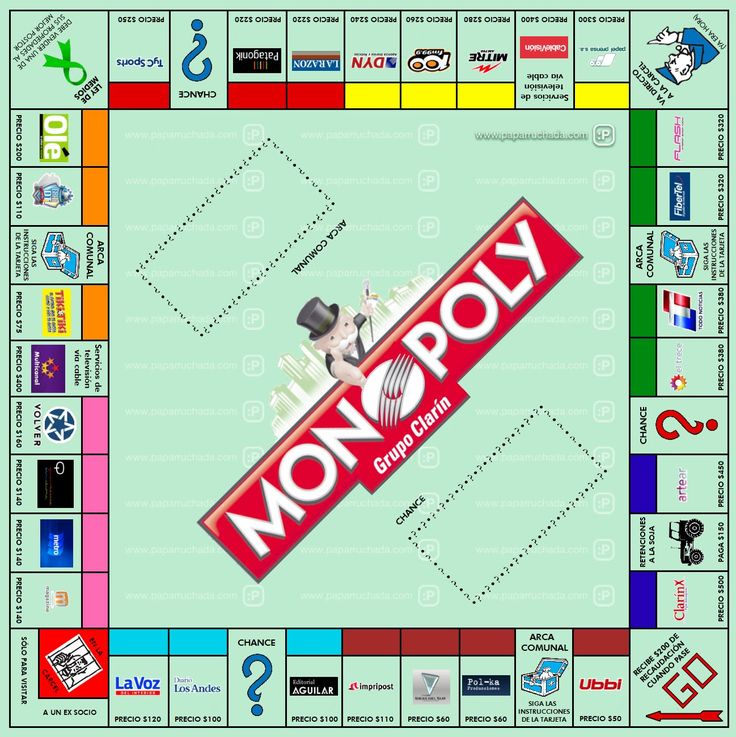
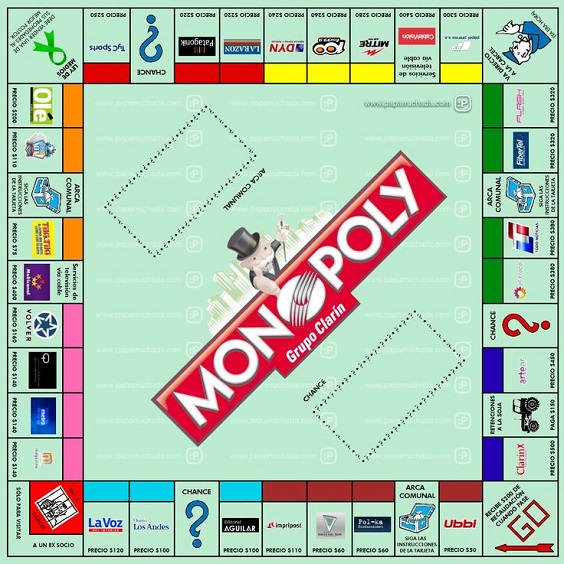
Final
Casi listo funcional

diff --git a/MonopolioRedes/Vista/Ventana_Juego.Designer.cs b/MonopolioRedes/Vista/Ventana_Juego.Designer.cs
@@ -36,22 +36,23 @@
             this.lJugadores = new System.Windows.Forms.ListBox();
             this.label1 = new System.Windows.Forms.Label();
             this.lDado = new System.Windows.Forms.Label();
+            this.lazul = new System.Windows.Forms.Label();
+            this.lamarillo = new System.Windows.Forms.Label();
+            this.lverde = new System.Windows.Forms.Label();
             this.lrojo = new System.Windows.Forms.Label();
             this.label3 = new System.Windows.Forms.Label();
             this.bLanzar = new System.Windows.Forms.Button();
             this.lTablero = new System.Windows.Forms.Label();
-            this.lverde = new System.Windows.Forms.Label();
-            this.lamarillo = new System.Windows.Forms.Label();
-            this.lazul = new System.Windows.Forms.Label();
             this.SuspendLayout();
             // 
             // bSaltarTurno
             // 
             this.bSaltarTurno.BackColor = System.Drawing.Color.FromArgb(((int)(((byte)(192)))), ((int)(((byte)(0)))), ((int)(((byte)(0)))));
             this.bSaltarTurno.Font = new System.Drawing.Font("Microsoft Sans Serif", 15.75F, System.Drawing.FontStyle.Bold, System.Drawing.GraphicsUnit.Point, ((byte)(0)));
-            this.bSaltarTurno.Location = new System.Drawing.Point(958, 426);
+            this.bSaltarTurno.Location = new System.Drawing.Point(1076, 535);
+            this.bSaltarTurno.Margin = new System.Windows.Forms.Padding(4);
             this.bSaltarTurno.Name = "bSaltarTurno";
-            this.bSaltarTurno.Size = new System.Drawing.Size(195, 64);
+            this.bSaltarTurno.Size = new System.Drawing.Size(260, 79);
             this.bSaltarTurno.TabIndex = 24;
             this.bSaltarTurno.Text = "Pasar Turno";
             this.bSaltarTurno.UseVisualStyleBackColor = false;
@@ -61,9 +62,10 @@
             // 
             this.bComprarPropiedad.BackColor = System.Drawing.Color.Lime;
             this.bComprarPropiedad.Font = new System.Drawing.Font("Microsoft Sans Serif", 12F, ((System.Drawing.FontStyle)((System.Drawing.FontStyle.Bold | System.Drawing.FontStyle.Italic))), System.Drawing.GraphicsUnit.Point, ((byte)(0)));
-            this.bComprarPropiedad.Location = new System.Drawing.Point(757, 426);
+            this.bComprarPropiedad.Location = new System.Drawing.Point(808, 535);
+            this.bComprarPropiedad.Margin = new System.Windows.Forms.Padding(4);
             this.bComprarPropiedad.Name = "bComprarPropiedad";
-            this.bComprarPropiedad.Size = new System.Drawing.Size(195, 63);
+            this.bComprarPropiedad.Size = new System.Drawing.Size(260, 78);
             this.bComprarPropiedad.TabIndex = 19;
             this.bComprarPropiedad.Text = "Comprar Propiedad";
             this.bComprarPropiedad.UseVisualStyleBackColor = false;
@@ -72,19 +74,21 @@
             // 
             this.lJugadorPropiedades.Font = new System.Drawing.Font("Microsoft Sans Serif", 9.75F, System.Drawing.FontStyle.Italic, System.Drawing.GraphicsUnit.Point, ((byte)(0)));
             this.lJugadorPropiedades.FormattingEnabled = true;
-            this.lJugadorPropiedades.ItemHeight = 16;
-            this.lJugadorPropiedades.Location = new System.Drawing.Point(754, 163);
+            this.lJugadorPropiedades.ItemHeight = 20;
+            this.lJugadorPropiedades.Location = new System.Drawing.Point(804, 212);
+            this.lJugadorPropiedades.Margin = new System.Windows.Forms.Padding(4);
             this.lJugadorPropiedades.Name = "lJugadorPropiedades";
-            this.lJugadorPropiedades.Size = new System.Drawing.Size(399, 164);
+            this.lJugadorPropiedades.Size = new System.Drawing.Size(531, 184);
             this.lJugadorPropiedades.TabIndex = 28;
             // 
             // label2
             // 
             this.label2.AutoSize = true;
             this.label2.Font = new System.Drawing.Font("Microsoft Sans Serif", 9.75F, ((System.Drawing.FontStyle)((System.Drawing.FontStyle.Bold | System.Drawing.FontStyle.Italic))), System.Drawing.GraphicsUnit.Point, ((byte)(0)));
-            this.label2.Location = new System.Drawing.Point(754, 144);
+            this.label2.Location = new System.Drawing.Point(804, 188);
+            this.label2.Margin = new System.Windows.Forms.Padding(4, 0, 4, 0);
             this.label2.Name = "label2";
-            this.label2.Size = new System.Drawing.Size(130, 16);
+            this.label2.Size = new System.Drawing.Size(155, 20);
             this.label2.TabIndex = 27;
             this.label2.Text = "Mis Propiedades:";
             // 
@@ -92,10 +96,11 @@
             // 
             this.lJugadores.Font = new System.Drawing.Font("Microsoft Sans Serif", 9.75F, System.Drawing.FontStyle.Italic, System.Drawing.GraphicsUnit.Point, ((byte)(0)));
             this.lJugadores.FormattingEnabled = true;
-            this.lJugadores.ItemHeight = 16;
-            this.lJugadores.Location = new System.Drawing.Point(754, 28);
+            this.lJugadores.ItemHeight = 20;
+            this.lJugadores.Location = new System.Drawing.Point(796, 46);
+            this.lJugadores.Margin = new System.Windows.Forms.Padding(4);
             this.lJugadores.Name = "lJugadores";
-            this.lJugadores.Size = new System.Drawing.Size(399, 100);
+            this.lJugadores.Size = new System.Drawing.Size(531, 104);
             this.lJugadores.TabIndex = 26;
             this.lJugadores.SelectedIndexChanged += new System.EventHandler(this.lJugadores_SelectedIndexChanged);
             // 
@@ -103,9 +108,10 @@
             // 
             this.label1.AutoSize = true;
             this.label1.Font = new System.Drawing.Font("Microsoft Sans Serif", 9.75F, ((System.Drawing.FontStyle)((System.Drawing.FontStyle.Bold | System.Drawing.FontStyle.Italic))), System.Drawing.GraphicsUnit.Point, ((byte)(0)));
-            this.label1.Location = new System.Drawing.Point(754, 9);
+            this.label1.Location = new System.Drawing.Point(804, 22);
+            this.label1.Margin = new System.Windows.Forms.Padding(4, 0, 4, 0);
             this.label1.Name = "label1";
-            this.label1.Size = new System.Drawing.Size(177, 16);
+            this.label1.Size = new System.Drawing.Size(213, 20);
             this.label1.TabIndex = 25;
             this.label1.Text = "Jugadores en la partida:";
             // 
@@ -113,29 +119,66 @@
             // 
             this.lDado.AutoSize = true;
             this.lDado.Font = new System.Drawing.Font("Microsoft Sans Serif", 15.75F, System.Drawing.FontStyle.Bold, System.Drawing.GraphicsUnit.Point, ((byte)(0)));
-            this.lDado.Location = new System.Drawing.Point(1045, 365);
+            this.lDado.Location = new System.Drawing.Point(1192, 460);
+            this.lDado.Margin = new System.Windows.Forms.Padding(4, 0, 4, 0);
             this.lDado.Name = "lDado";
-            this.lDado.Size = new System.Drawing.Size(76, 25);
+            this.lDado.Size = new System.Drawing.Size(92, 31);
             this.lDado.TabIndex = 30;
             this.lDado.Text = "label4";
+            // 
+            // lazul
+            // 
+            this.lazul.BackColor = System.Drawing.Color.Transparent;
+            this.lazul.Image = global::MonopolioRedes.Properties.Resources.FichaAzul1;
+            this.lazul.Location = new System.Drawing.Point(526, 529);
+            this.lazul.Margin = new System.Windows.Forms.Padding(4, 0, 4, 0);
+            this.lazul.Name = "lazul";
+            this.lazul.Size = new System.Drawing.Size(31, 26);
+            this.lazul.TabIndex = 34;
+            this.lazul.Click += new System.EventHandler(this.lazul_Click);
+            // 
+            // lamarillo
+            // 
+            this.lamarillo.BackColor = System.Drawing.Color.Transparent;
+            this.lamarillo.Image = global::MonopolioRedes.Properties.Resources.FichaAmarilla1;
+            this.lamarillo.Location = new System.Drawing.Point(487, 529);
+            this.lamarillo.Margin = new System.Windows.Forms.Padding(4, 0, 4, 0);
+            this.lamarillo.Name = "lamarillo";
+            this.lamarillo.Size = new System.Drawing.Size(31, 26);
+            this.lamarillo.TabIndex = 33;
+            this.lamarillo.Click += new System.EventHandler(this.lamarillo_Click);
+            // 
+            // lverde
+            // 
+            this.lverde.BackColor = System.Drawing.Color.Transparent;
+            this.lverde.Image = global::MonopolioRedes.Properties.Resources.FichaVerde;
+            this.lverde.Location = new System.Drawing.Point(526, 491);
+            this.lverde.Margin = new System.Windows.Forms.Padding(4, 0, 4, 0);
+            this.lverde.Name = "lverde";
+            this.lverde.Size = new System.Drawing.Size(31, 26);
+            this.lverde.TabIndex = 32;
+            this.lverde.Click += new System.EventHandler(this.lverde_Click);
             // 
             // lrojo
             // 
             this.lrojo.BackColor = System.Drawing.Color.Transparent;
             this.lrojo.Image = global::MonopolioRedes.Properties.Resources.FichaRoja;
-            this.lrojo.Location = new System.Drawing.Point(649, 664);
+            this.lrojo.Location = new System.Drawing.Point(487, 491);
+            this.lrojo.Margin = new System.Windows.Forms.Padding(4, 0, 4, 0);
             this.lrojo.Name = "lrojo";
-            this.lrojo.Size = new System.Drawing.Size(23, 21);
+            this.lrojo.Size = new System.Drawing.Size(31, 26);
             this.lrojo.TabIndex = 31;
+            this.lrojo.Click += new System.EventHandler(this.lrojo_Click);
             // 
             // label3
             // 
             this.label3.BackColor = System.Drawing.Color.Transparent;
             this.label3.Image = ((System.Drawing.Image)(resources.GetObject("label3.Image")));
             this.label3.ImageAlign = System.Drawing.ContentAlignment.TopLeft;
-            this.label3.Location = new System.Drawing.Point(1043, 651);
+            this.label3.Location = new System.Drawing.Point(1391, 801);
+            this.label3.Margin = new System.Windows.Forms.Padding(4, 0, 4, 0);
             this.label3.Name = "label3";
-            this.label3.Size = new System.Drawing.Size(105, 80);
+            this.label3.Size = new System.Drawing.Size(140, 98);
             this.label3.TabIndex = 29;
             // 
             // bLanzar
@@ -144,9 +187,10 @@
             this.bLanzar.Font = new System.Drawing.Font("Microsoft Sans Serif", 15.75F, System.Drawing.FontStyle.Bold, System.Drawing.GraphicsUnit.Point, ((byte)(0)));
             this.bLanzar.Image = global::MonopolioRedes.Properties.Resources.dado;
             this.bLanzar.ImageAlign = System.Drawing.ContentAlignment.MiddleRight;
-            this.bLanzar.Location = new System.Drawing.Point(754, 345);
+            this.bLanzar.Location = new System.Drawing.Point(804, 436);
+            this.bLanzar.Margin = new System.Windows.Forms.Padding(4);
             this.bLanzar.Name = "bLanzar";
-            this.bLanzar.Size = new System.Drawing.Size(271, 65);
+            this.bLanzar.Size = new System.Drawing.Size(361, 80);
             this.bLanzar.TabIndex = 18;
             this.bLanzar.Text = "TIRAR DADO";
             this.bLanzar.UseVisualStyleBackColor = false;
@@ -158,44 +202,18 @@
             this.lTablero.Image = global::MonopolioRedes.Properties.Resources.tablero;
             this.lTablero.ImageAlign = System.Drawing.ContentAlignment.TopLeft;
             this.lTablero.Location = new System.Drawing.Point(-1, -1);
+            this.lTablero.Margin = new System.Windows.Forms.Padding(4, 0, 4, 0);
             this.lTablero.Name = "lTablero";
-            this.lTablero.Size = new System.Drawing.Size(749, 814);
+            this.lTablero.Size = new System.Drawing.Size(753, 706);
             this.lTablero.TabIndex = 8;
             this.lTablero.Click += new System.EventHandler(this.lTablero_Click);
             // 
-            // lverde
-            // 
-            this.lverde.BackColor = System.Drawing.Color.Transparent;
-            this.lverde.Image = global::MonopolioRedes.Properties.Resources.FichaVerde;
-            this.lverde.Location = new System.Drawing.Point(678, 664);
-            this.lverde.Name = "lverde";
-            this.lverde.Size = new System.Drawing.Size(23, 21);
-            this.lverde.TabIndex = 32;
-            // 
-            // lamarillo
-            // 
-            this.lamarillo.BackColor = System.Drawing.Color.Transparent;
-            this.lamarillo.Image = global::MonopolioRedes.Properties.Resources.FichaAmarilla1;
-            this.lamarillo.Location = new System.Drawing.Point(649, 695);
-            this.lamarillo.Name = "lamarillo";
-            this.lamarillo.Size = new System.Drawing.Size(23, 21);
-            this.lamarillo.TabIndex = 33;
-            // 
-            // lazul
-            // 
-            this.lazul.BackColor = System.Drawing.Color.Transparent;
-            this.lazul.Image = global::MonopolioRedes.Properties.Resources.FichaAzul1;
-            this.lazul.Location = new System.Drawing.Point(678, 695);
-            this.lazul.Name = "lazul";
-            this.lazul.Size = new System.Drawing.Size(23, 21);
-            this.lazul.TabIndex = 34;
-            // 
             // Ventana_Juego
             // 
-            this.AutoScaleDimensions = new System.Drawing.SizeF(6F, 13F);
+            this.AutoScaleDimensions = new System.Drawing.SizeF(8F, 16F);
             this.AutoScaleMode = System.Windows.Forms.AutoScaleMode.Font;
             this.BackColor = System.Drawing.Color.Gray;
-            this.ClientSize = new System.Drawing.Size(1156, 740);
+            this.ClientSize = new System.Drawing.Size(1457, 697);
             this.Controls.Add(this.lazul);
             this.Controls.Add(this.lamarillo);
             this.Controls.Add(this.lverde);
@@ -211,7 +229,7 @@
             this.Controls.Add(this.bLanzar);
             this.Controls.Add(this.lTablero);
             this.Icon = ((System.Drawing.Icon)(resources.GetObject("$this.Icon")));
-            this.Margin = new System.Windows.Forms.Padding(2);
+            this.Margin = new System.Windows.Forms.Padding(3, 2, 3, 2);
             this.Name = "Ventana_Juego";
             this.Text = "Ventana_Juego";
             this.FormClosed += new System.Windows.Forms.FormClosedEventHandler(this.Ventana_Juego_FormClosed);

diff --git a/MonopolioRedes/Properties/Settings.Designer.cs b/MonopolioRedes/Properties/Settings.Designer.cs
@@ -8,21 +8,17 @@
 // </auto-generated>
 //------------------------------------------------------------------------------
 
-namespace MonopolioRedes.Properties
-{
-
-
+namespace MonopolioRedes.Properties {
+    
+    
     [global::System.Runtime.CompilerServices.CompilerGeneratedAttribute()]
-    [global::System.CodeDom.Compiler.GeneratedCodeAttribute("Microsoft.VisualStudio.Editors.SettingsDesigner.SettingsSingleFileGenerator", "11.0.0.0")]
-    internal sealed partial class Settings : global::System.Configuration.ApplicationSettingsBase
-    {
-
+    [global::System.CodeDom.Compiler.GeneratedCodeAttribute("Microsoft.VisualStudio.Editors.SettingsDesigner.SettingsSingleFileGenerator", "15.7.0.0")]
+    internal sealed partial class Settings : global::System.Configuration.ApplicationSettingsBase {
+        
         private static Settings defaultInstance = ((Settings)(global::System.Configuration.ApplicationSettingsBase.Synchronized(new Settings())));
-
-        public static Settings Default
-        {
-            get
-            {
+        
+        public static Settings Default {
+            get {
                 return defaultInstance;
             }
         }

diff --git a/MonopolioRedes/Vista/Ventana_Juego.cs b/MonopolioRedes/Vista/Ventana_Juego.cs
@@ -135,6 +135,24 @@ namespace MonopolioRedes.Vista
             controla.LanzarDado(_jugadorPrincipal);
         }
 
+        private void lrojo_Click(object sender, EventArgs e)
+        {
 
+        }
+
+        private void lazul_Click(object sender, EventArgs e)
+        {
+
+        }
+
+        private void lamarillo_Click(object sender, EventArgs e)
+        {
+
+        }
+
+        private void lverde_Click(object sender, EventArgs e)
+        {
+
+        }
     }
 }
